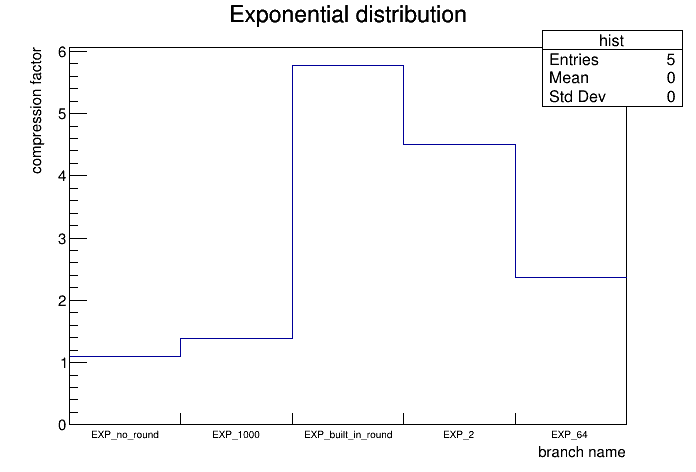
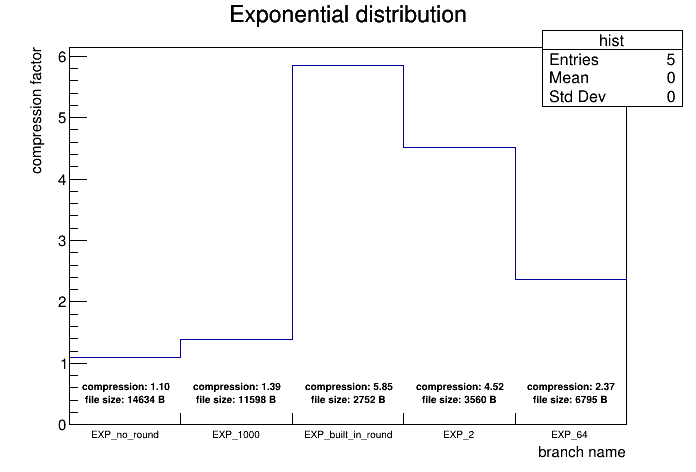
add TTree info to hist

diff --git a/TTreeCompressionTest.cpp b/TTreeCompressionTest.cpp
@@ -11,9 +11,6 @@
 
 int main(int argc, char** argv){
 
-    // dummy file
-    std::ofstream data_file("", std::ios::app);
-
     // .root file to save TTree
     TFile *file  = TFile::Open("../data/data.root","RECREATE");
 
@@ -24,9 +21,8 @@ int main(int argc, char** argv){
     // txt file for output (tree data)
     FILE* log_file = freopen("../data/log_file.txt", "w", stdout);
 
-    // prepare variables
-	std::map<unsigned char const, size_t> map;
-    std::vector<unsigned char> data_exp_char, compressed_data_exp, data_uniform_char, compressed_data_uniform;
+    // canvas to draw on
+    TCanvas *canvas = new TCanvas();
 
 
    	////////////////////////////////////
@@ -56,12 +52,10 @@ int main(int argc, char** argv){
     array_apply_transform(data_exp_5, N, round_fun_64);
     tree_exp->Branch("EXP_64", &data_exp_5);
 
-
     // fill TTree with data, write data to disk, print TTree info 
     tree_exp->Fill();
     tree_exp->Write();
 	tree_exp->Print();
-
 
     // create labels and histogram
     std::string labels[] = {"EXP_no_round", "EXP_1000", "EXP_built_in_round", "EXP_2", "EXP_64"};
@@ -75,65 +69,33 @@ int main(int argc, char** argv){
         hist->SetBinContent(i + 1, comp_fact);
         hist->GetXaxis()->SetBinLabel(i + 1, labels[i].c_str());
     }
+    hist->Draw();
+
+    // add additional branch info
+    for (int i = 0; i < 5; ++i) {
+        TBranch* branch = tree_exp->GetBranch(labels[i].c_str());
+        double comp_fact = (double)branch->GetTotBytes() / branch->GetZipBytes();
+        Long64_t compressed_size = branch->GetZipBytes();
+
+        double center = hist->GetXaxis()->GetBinCenter(i+1);
+
+        TText *comprs = new TText(center, 0.6, Form("compression: %1.2f", comp_fact));
+        comprs->SetTextSize(0.024);
+        comprs->SetTextAlign(22); // center text
+        comprs->Draw();
+
+        TText *size = new TText(center, 0.4, Form("file size: %lld B", compressed_size));
+        size->SetTextSize(0.024);
+        size->SetTextAlign(22);// center text
+        size->Draw();
+    } 
 
     // save histogram image to file 
-    TCanvas *canvas = new TCanvas();
-    hist->Draw();
     canvas->SaveAs((DATA_DIR_PATH + "compression_factor_exp.png").c_str());
     delete hist;
 
 
     std::cout << "\n\n";
-
-
-    std::vector<float> *vec;
-    TH1F *hist1 = new TH1F(labels[0].c_str(), "Byte occurrence frequency", 256, 0, 256);
-    TH1F *hist2 = new TH1F(labels[1].c_str(), "Byte occurrence frequency", 256, 0, 256);
-    TH1F *hist3 = new TH1F(labels[2].c_str(), "Byte occurrence frequency", 256, 0, 256);
-    TH1F *hist4 = new TH1F(labels[3].c_str(), "Byte occurrence frequency", 256, 0, 256);
-    TH1F *hist5 = new TH1F(labels[4].c_str(), "Byte occurrence frequency", 256, 0, 256);
-
-    std::vector<TH1F*> histograms{
-        hist1, hist2, hist3, hist4, hist5
-    };
-
-    auto hs = new THStack("hs","Stacked histograms EXP");
-
-    hs->Add(hist1);
-    hs->Add(hist2);
-    hs->Add(hist3);
-    hs->Add(hist4);
-    hs->Add(hist5);
-
-    for(int i=0; i<5; i++){
-        tree_exp->SetBranchAddress(labels[i].c_str(), &vec);
-        tree_exp->GetEntry(0);
-        for(float val : *vec){
-            unsigned char *bytes = reinterpret_cast<unsigned char*>(&val);
-            for (size_t j = 0; j < sizeof(float); ++j)
-                histograms[i]->Fill(bytes[j]);
-            }
-    }
-
-    hist1->Draw();
-    canvas->SaveAs((DATA_DIR_PATH + labels[0] + "_tree.png").c_str());
-
-    hist2->Draw();
-    canvas->SaveAs((DATA_DIR_PATH + labels[1] + "_tree.png").c_str());
-
-    hist3->Draw();
-    canvas->SaveAs((DATA_DIR_PATH + labels[2] + "_tree.png").c_str());
-
-    hist4->Draw();
-    canvas->SaveAs((DATA_DIR_PATH + labels[3] + "_tree.png").c_str());
-
-    hist5->Draw();
-    canvas->SaveAs((DATA_DIR_PATH + labels[4] + "_tree.png").c_str());
-
-    hs->Draw("pfc nostack");
-    canvas->SaveAs((DATA_DIR_PATH + "combined_hist_EXP.png").c_str());
-
-    delete hist1, hist2, hist3, hist4, hist5, hs; 
 
 
 	////////////////////////////////////
@@ -161,7 +123,7 @@ int main(int argc, char** argv){
     array_apply_transform(data_uni_5, N, round_fun_64);
     tree_uni->Branch("UNI_64", &data_uni_5);
     
-    // // fill TTree with data, write data to disk, print TTree info
+    // fill TTree with data, write data to disk, print TTree info
     tree_uni->Fill();
     tree_uni->Write();
 	tree_uni->Print();
@@ -178,73 +140,39 @@ int main(int argc, char** argv){
         hist->SetBinContent(i + 1, comp_fact);
         hist->GetXaxis()->SetBinLabel(i + 1, labels2[i].c_str());
     }
+    hist->Draw();
+
+    // add additional branch info
+    for (int i = 0; i < 5; ++i) {
+        TBranch* branch = tree_uni->GetBranch(labels2[i].c_str());
+        double comp_fact = (double)branch->GetTotBytes() / branch->GetZipBytes();
+        Long64_t compressed_size = branch->GetZipBytes();
+
+        double center = hist->GetXaxis()->GetBinCenter(i+1);
+
+        TText *comprs = new TText(center, 0.6, Form("compression: %1.2f", comp_fact));
+        comprs->SetTextSize(0.024);
+        comprs->SetTextAlign(22); // center text
+        comprs->Draw();
+
+        TText *size = new TText(center, 0.4, Form("file size: %lld B", compressed_size));
+        size->SetTextSize(0.024);
+        size->SetTextAlign(22);// center text
+        size->Draw();
+    } 
 
     // save histogram image to file 
-    hist->Draw();
     canvas->SaveAs((DATA_DIR_PATH + "compression_factor_uni.png").c_str());
-    delete hist;
-
-
-    // std::vector<float> *vec2;
-    // hist1 = new TH1F(labels2[0].c_str(), "Byte occurrence frequency", 256, 0, 256);
-    // hist2 = new TH1F(labels2[1].c_str(), "Byte occurrence frequency", 256, 0, 256);
-    // hist3 = new TH1F(labels2[2].c_str(), "Byte occurrence frequency", 256, 0, 256);
-    // hist4 = new TH1F(labels2[3].c_str(), "Byte occurrence frequency", 256, 0, 256);
-    // hist5 = new TH1F(labels2[4].c_str(), "Byte occurrence frequency", 256, 0, 256);
-
-    // std::vector<TH1F*> histograms2{
-    //     hist1, hist2, hist3, hist4, hist5
-    // };
-
-    // hs = new THStack("hs","Stacked histograms UNI");
-
-    // hs->Add(hist1);
-    // hs->Add(hist2);
-    // hs->Add(hist3);
-    // hs->Add(hist4);
-    // hs->Add(hist5);
-
-    // for(int i=0; i<5; i++){
-    //     tree_uni->SetBranchAddress(labels2[i].c_str(), &vec2);
-    //     tree_uni->GetEntry(0);
-    //     for(float val : *vec2){
-    //         unsigned char *bytes = reinterpret_cast<unsigned char*>(&val);
-    //         for (size_t j = 0; j < sizeof(float); ++j)
-    //             histograms2[i]->Fill(bytes[j]);
-    //         }
-    // }
-
-    // hist1->Draw();
-    // canvas->SaveAs((DATA_DIR_PATH + labels2[0] + "_tree.png").c_str());
-
-    // hist2->Draw();
-    // canvas->SaveAs((DATA_DIR_PATH + labels2[1] + "_tree.png").c_str());
-
-    // hist3->Draw();
-    // canvas->SaveAs((DATA_DIR_PATH + labels2[2] + "_tree.png").c_str());
-
-    // hist4->Draw();
-    // canvas->SaveAs((DATA_DIR_PATH + labels2[3] + "_tree.png").c_str());
-
-    // hist5->Draw();
-    // canvas->SaveAs((DATA_DIR_PATH + labels2[4] + "_tree.png").c_str());
-
-    // hs->Draw("pfc nostack");
-    // canvas->SaveAs((DATA_DIR_PATH + "combined_hist_UNI.png").c_str());
-
-    // delete hist1, hist2, hist3, hist4, hist5, hs; 
-
 
     // close files
     file->Close();
-	data_file.close();
     fclose(log_file);
 
     // reset stdout
     freopen("/dev/tty", "w", stdout);
 
     // free memory
-    delete file, canvas, tree_exp, tree_uni;
+    delete file, canvas, tree_exp, tree_uni, hist;
 
    	return 0;
 }
